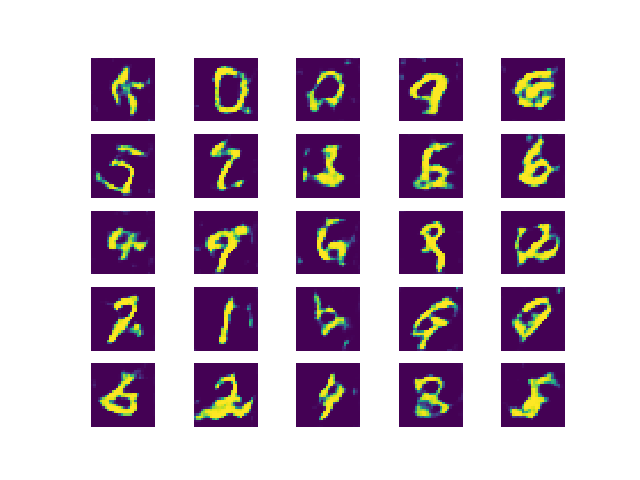
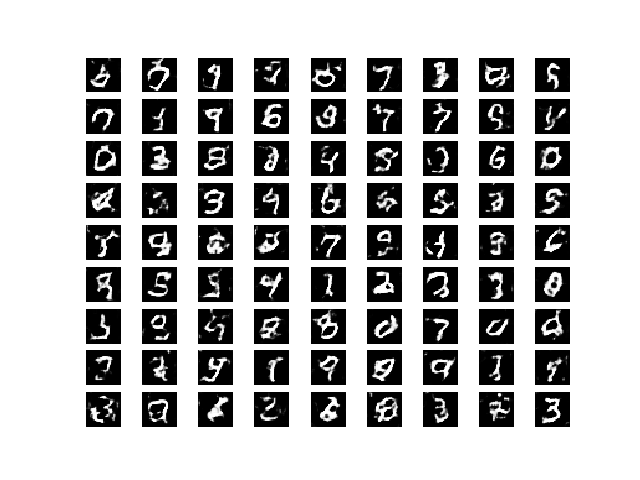
Initial Commit

diff --git a/test.py b/test.py
@@ -4,7 +4,6 @@ from keras.datasets import mnist
 from wgan import WassersteinGAN
 
 (X, _), (_, _) = mnist.load_data()
-
 """
 # Train from scratch.
 wgan = WassersteinGAN(epochs=6000, verbose=True)
@@ -12,8 +11,7 @@ wgan.fit(X, load_models=False)
 wgan.train(sample_interval=50)
 wgan.sample_images(grid=[5,5])
 """
-
 # Use Pre-Trained Models.
 wgan = WassersteinGAN(verbose=True)
 wgan.fit(X, load_models=True, generator_file="Trained_Models/Generator.h5", critic_file="Trained_Models/Critic.h5")
-wgan.sample_images(grid=[5,5], name="Final", random=False)
+wgan.sample_images(grid=[9,9], name="Final", random=False)

diff --git a/wgan/wgan.py b/wgan/wgan.py
@@ -338,7 +338,7 @@ class WassersteinGAN():
         sample = 0
         for i in range(0, rows):
             for j in range(0, columns):
-                axs[i,j].imshow(generated_images[sample, :, :, 0], cmap='viridis')
+                axs[i,j].imshow(generated_images[sample, :, :, 0], cmap='gray')
                 axs[i,j].axis("off")
                 sample = sample + 1
 
